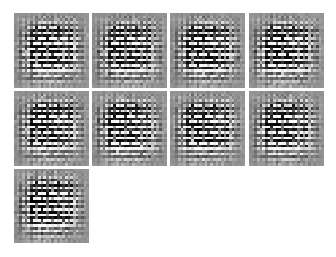
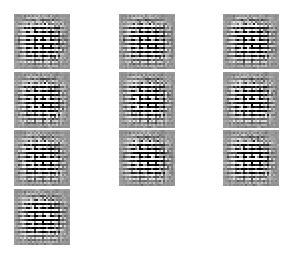
test run

diff --git a/cDCGAN.py b/cDCGAN.py
@@ -213,12 +213,12 @@ def save_images(generator, images, epoch, i):
     gs = gridspec.GridSpec(3, 3)
 
 def save_images(generator, epoch, i):
-    fig = plt.figure(figsize=(4, 4))
-    gs = gridspec.GridSpec(4, 4)
+    fig = plt.figure(figsize=(4, 3))
+    gs = gridspec.GridSpec(4, 3)
     gs.update(wspace=.05, hspace=.05)
-    z = generate_nosie(9)
+    z = generate_nosie(10)
     onehot = torch.zeros(10, 10).scatter_(1, torch.cuda.LongTensor([0, 1, 2, 3, 4, 5, 6, 7, 8, 9]).view(10,1), 1).view(10, 10, 1, 1)
-    fill = torch.cuda.LongTensor([1, 2, 3, 4, 5, 6, 7, 8, 9])
+    fill = torch.cuda.LongTensor([0, 1, 2, 3, 4, 5, 6, 7, 8, 9])
     fill = onehot[fill]
 
     images_fake = generator(z, fill)
